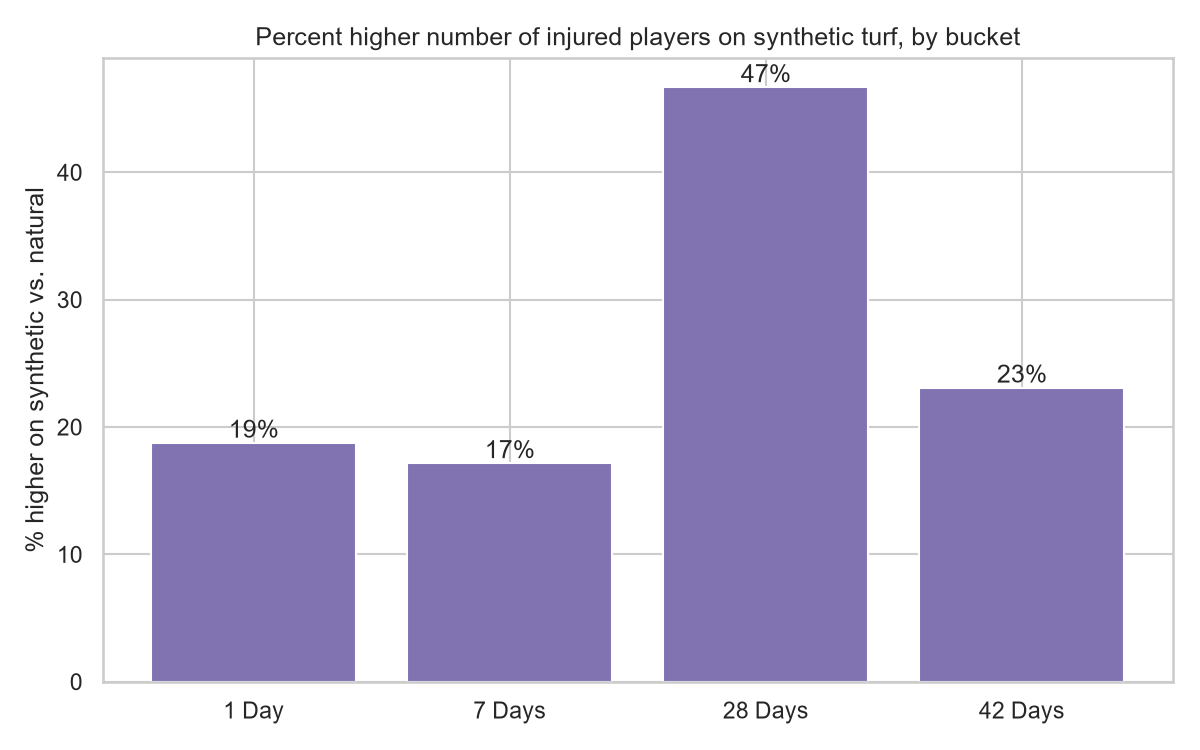
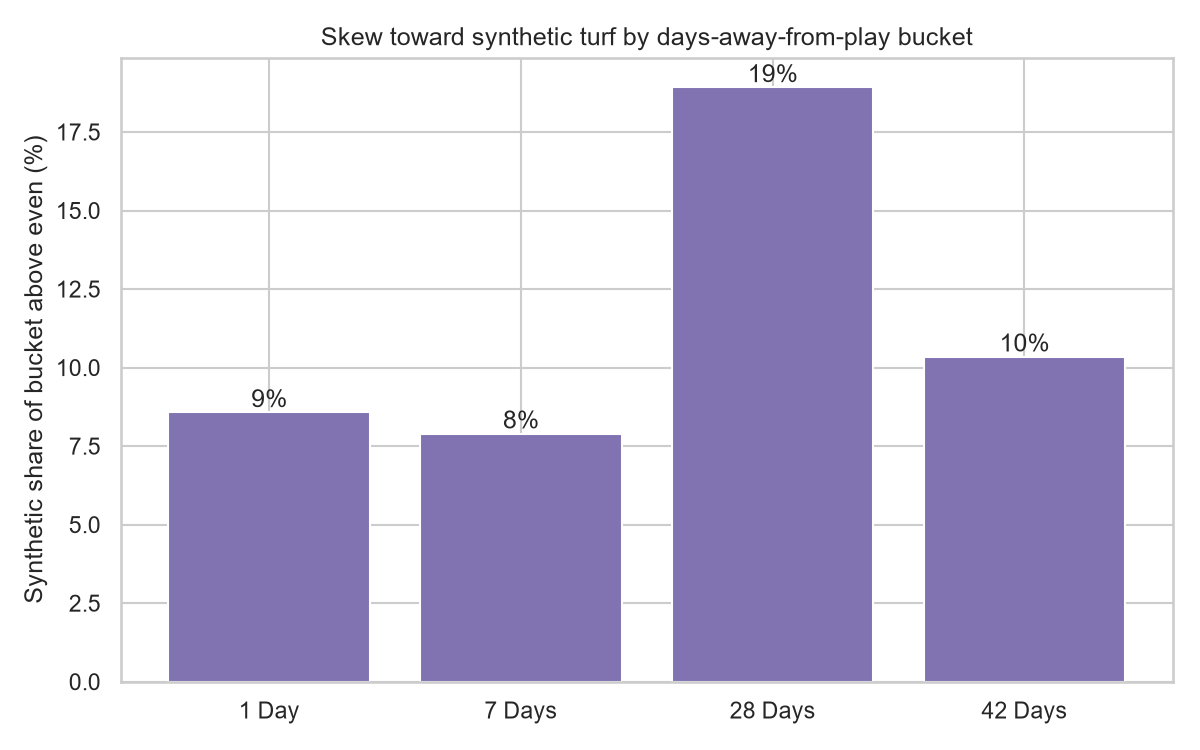
Correct FIG-3 formula and document FIG-2 count discrepancy
The paper's FIG-3 bar values (9/16/39/40) are not the relative increase
(syn-nat)/nat, which gives 21/39/127/136 on its own FIG-2 counts. They are
reproduced exactly by the synthetic share of each bucket above even,
(syn-nat)/(syn+nat). Switch to the paper's actual formula.

Also document that the paper's FIG-2 absolute counts (437 players in the
1-day bucket alone) exceed the entire 105-injury InjuryRecord.csv and are
not reproducible from the official data under any tested derivation.

diff --git a/src/reproduce_paper_figures.py b/src/reproduce_paper_figures.py
@@ -102,14 +102,21 @@ def fig2_fig3_severity(injury):
     plt.xticks(rotation=0)
     savefig("fig2_days_away_counts_by_surface.png")
 
-    pct_higher = (counts["Synthetic"] - counts["Natural"]) / counts["Natural"] * 100
-    print("FIG-3 pct higher on synthetic:\n", pct_higher)
+    # The paper calls FIG-3 the "percentage of higher numbers players injured in
+    # Artificial Turf ... compare to Natural Turf", but its published bar values
+    # (9 / 16 / 39 / 40) are reproduced exactly by the synthetic share of each
+    # bucket above even, i.e. (syn - nat) / (syn + nat) -- not by the relative
+    # increase (syn - nat) / nat, which would give 21 / 39 / 127 / 136 on the
+    # paper's own FIG-2 counts. We follow the paper's actual formula.
+    share_diff = ((counts["Synthetic"] - counts["Natural"])
+                  / (counts["Synthetic"] + counts["Natural"]) * 100)
+    print("FIG-3 synthetic share difference (%):\n", share_diff)
 
     plt.figure(figsize=(8, 5))
-    plt.bar(labels, pct_higher.values, color="#8172B2")
-    plt.ylabel("% higher on synthetic vs. natural")
-    plt.title("Percent higher number of injured players on synthetic turf, by bucket")
-    for i, value in enumerate(pct_higher.values):
+    plt.bar(labels, share_diff.values, color="#8172B2")
+    plt.ylabel("Synthetic share of bucket above even (%)")
+    plt.title("Skew toward synthetic turf by days-away-from-play bucket")
+    for i, value in enumerate(share_diff.values):
         plt.text(i, value, f"{value:.0f}%", ha="center", va="bottom")
     savefig("fig3_pct_higher_synthetic.png")
 
